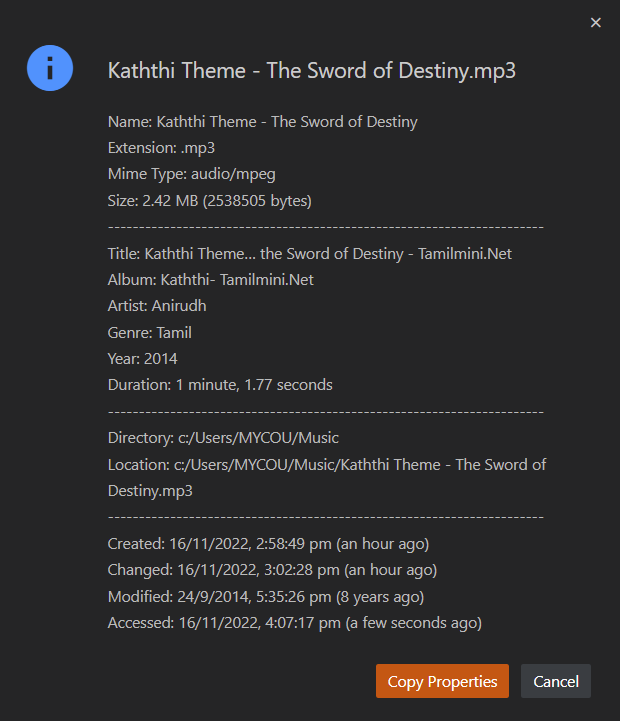
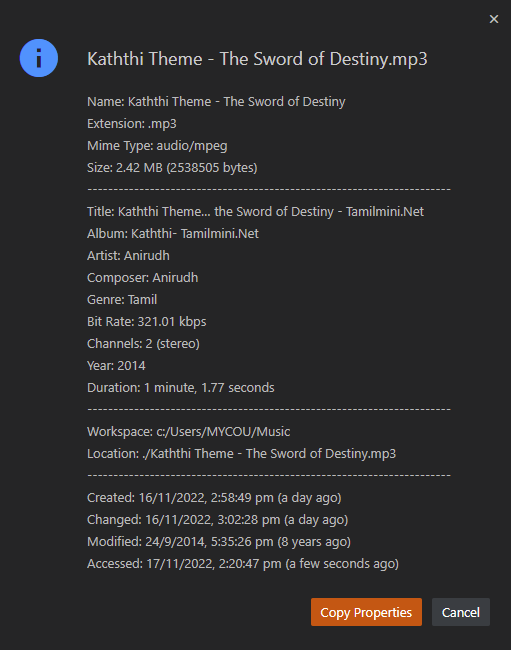
feat: Added more video and audio properties

diff --git a/src/extension.ts b/src/extension.ts
@@ -46,25 +46,34 @@ export function activate(context: vscode.ExtensionContext) {
 
 				const imageDetails = image ?
 					clean([
-						["Dimensions", `${image?.width} x ${image?.height} pixels`, Settings.imageMetaData.dimensions && typeof image.width !== 'undefined' && typeof image.height !== 'undefined'],
-						["Width", `${image?.width} pixels`, Settings.imageMetaData.width && typeof image.width !== 'undefined'],
-						["Height", `${image?.height} pixels`, Settings.imageMetaData.height && typeof image.height !== 'undefined'],
+						["Dimensions", `${image?.width} x ${image?.height} pixels`, Settings.metaData.dimensions && typeof image.width !== 'undefined' && typeof image.height !== 'undefined'],
+						["Width", `${image?.width} pixels`, Settings.metaData.width && typeof image.width !== 'undefined'],
+						["Height", `${image?.height} pixels`, Settings.metaData.height && typeof image.height !== 'undefined'],
 					]).join('\n') : "";
 
 				const audioDetails = audio ?
 					clean([
-						["Title", audio.title, Settings.audioMetaData.title && audio.title],
-						["Album", audio.album, Settings.audioMetaData.album && audio.album],
-						["Artist", audio.artist.join(', '), Settings.audioMetaData.artist && audio.artist],
-						["Genre", audio.genre.join(', '), Settings.audioMetaData.genre && audio.genre],
-						["Year", audio.year, Settings.audioMetaData.year && audio.year],
-						["Duration", humanizeDuration(audio.duration * 1000, { maxDecimalPoints: 2 }), Settings.showDuration && audio.duration],
+						["Title", audio.title, Settings.metaData.title && audio.title],
+						["Album", audio.album, Settings.metaData.album && audio.album],
+						["Artist", audio.artist, Settings.metaData.artist && audio.artist],
+						["Composer", audio.composer, Settings.metaData.composer && audio.composer],
+						["Genre", audio.genre, Settings.metaData.genre && audio.genre],
+						["Bit Rate", convertBytes(audio.bitRate, ['bps', 'kbps', 'mbps'], false), Settings.metaData.bitRate && audio.bitRate],
+						["Channels", audio.channels, Settings.metaData.channels && audio.channels],
+						["Year", audio.year, Settings.metaData.year && audio.year],
+						["Duration", humanizeDuration(audio.duration * 1000, { maxDecimalPoints: 2 }), Settings.metaData.duration && audio.duration],
 					]).join('\n') : "";
 
 				const videoDetails = video ?
 					clean([
-						["Duration", humanizeDuration(video.duration * 1000, { maxDecimalPoints: 2 }), Settings.showDuration && video.duration],
-					]) : "";
+						["Dimensions", `${video?.width} x ${video?.height} pixels`,  Settings.metaData.dimensions && typeof video.width !== 'undefined' && typeof video.height !== 'undefined'],
+						["Width", `${video?.width} pixels`,  Settings.metaData.width && typeof video.width !== 'undefined'],
+						["Height", `${video?.height} pixels`,  Settings.metaData.height && typeof video.height !== 'undefined'],
+						["Frame Rate", `${video.frameRate}fps`,  Settings.metaData.frameRate && video.frameRate],
+						["Bit Rate", convertBytes(video.bitRate, ['bps', 'kbps', 'mbps'], false),  Settings.metaData.bitRate && video.bitRate],
+						["Ratio", video.ratio,  Settings.metaData.ratio && video.ratio],
+						["Duration", humanizeDuration(video.duration * 1000, { maxDecimalPoints: 2 }), Settings.metaData.duration && video.duration],
+					]).join('\n') : "";
 
 				const locationDetails = clean([
 					['Workspace', stats.workspace?.fsPath, Settings.paths.relativeToRoot && Settings.paths.workspace && stats.workspace?.fsPath],

diff --git a/src/helpers.ts b/src/helpers.ts
@@ -10,15 +10,17 @@ import * as path from "path";
 import * as vscode from 'vscode';
 import * as DataDetails from './DataDetails';
 import { Settings } from './Settings';
+import * as  ffmpeg from 'fluent-ffmpeg';
+const ffprobe = require('@ffprobe-installer/ffprobe');
 
+ffmpeg.setFfprobePath(ffprobe.path);
 
 // Converts the file size from Bytes to KB | MB | GB | TB
-export const convertBytes = (bytes: number): string => {
-  const sizes = ['Bytes', 'KB', 'MB', 'GB', 'TB'];
+export const convertBytes = (bytes: number, sizes = ['Bytes', 'KB', 'MB', 'GB', 'TB'], showBytes = true): string => {
   if (bytes === 0) return 'n/a';
   const i = Math.floor(Math.log(bytes) / Math.log(1024));
   if (i === 0) return bytes + ' ' + sizes[i];
-  return (bytes / Math.pow(1024, i)).toFixed(2) + ' ' + sizes[i] + ` (${bytes} bytes)`;
+  return (bytes / Math.pow(1024, i)).toFixed(2) + ' ' + sizes[i] + (showBytes ? ` (${bytes} bytes)` : "");
 };
 
 export const clean = (list: any[]) => {
@@ -140,17 +142,32 @@ export const getImageDetails = (imagePath: string) => {
   }
 };
 
-export const getAudioDetails = async (audioPath: string): Promise<MM.Metadata | undefined> => {
+const ffprobePromise = async (filePath: string) => {
+  const metaData: ffmpeg.FfprobeData = await new Promise((resolve, reject) =>
+    ffmpeg.ffprobe(filePath, (err, metadata) => {
+      if (err) reject(err);
+      else resolve(metadata);
+    })
+  );
+  return metaData;
+};
+
+export const getAudioDetails = async (audioPath: string) => {
   try {
-    var readableStream = fs.createReadStream(audioPath);
-    const result = await new Promise((resolve, reject) => {
-      musicmetadata(readableStream, { duration: Settings.showDuration }, function (err, metadata) {
-        if (err) throw reject(err);
-        readableStream.close();
-        resolve(metadata);
-      });
-    });
-    return result as MM.Metadata;
+    const metaData = await ffprobePromise(audioPath);
+    const audio = metaData.streams.find(st => st.codec_type === 'audio') || {} as ffmpeg.FfprobeStream;
+    const tags = metaData.format.tags || {};
+    return {
+      title: tags.title,
+      album: tags.album,
+      artist: tags.artist,
+      composer: tags.composer,
+      genre: tags.genre,
+      year: tags.date,
+      duration: metaData.format.duration || 0,
+      bitRate: metaData.format.bit_rate || 0,
+      channels: audio.channel_layout ? `${audio.channels} (${audio.channel_layout})` : audio.channels,
+    };
   } catch (error: any) {
     console.error(error.message);
     return undefined;
@@ -160,10 +177,16 @@ export const getAudioDetails = async (audioPath: string): Promise<MM.Metadata | 
 // TODO: Now we get only duration. We need try to get other video information as well
 export const getVideoDetails = async (videoPath: string) => {
   try {
-    if (!Settings.showDuration) return;
-    var readableStream = fs.createReadStream(videoPath);
-    const duration = await getVideoDurationInSeconds(readableStream);
-    return { duration };
+    const metaData = await ffprobePromise(videoPath);
+    const video = metaData.streams.find(st => st.codec_type === 'video') || {} as ffmpeg.FfprobeStream;
+    return {
+      width: video.width,
+      height: video.height,
+      duration: metaData.format.duration || 0,
+      bitRate: parseInt(video.bit_rate || '0', 10),
+      frameRate: eval(video.r_frame_rate || "0").toFixed(2),
+      ratio: video.display_aspect_ratio
+    };
   } catch (error: any) {
     console.error(error.message);
     return undefined;

diff --git a/src/Settings.ts b/src/Settings.ts
@@ -24,20 +24,22 @@ export class Settings {
       "relativeTimestamp": boolean
     };
   }
-  static get audioMetaData() {
-    return Settings.getSettings("audioMetaData") as {
-      "title": boolean,
-      "album": boolean,
-      "artist": boolean,
-      "genre": boolean,
-      "year": boolean
-    };
-  }
-  static get imageMetaData() {
-    return Settings.getSettings("imageMetaData") as {
+  static get metaData() {
+    return Settings.getSettings("metaData") as {
       "dimensions": boolean,
       "width": boolean,
-      "height": boolean
+      "height": boolean,
+      "title" : boolean,
+      "album" : boolean,
+      "artist" : boolean,
+      "composer" : boolean,
+      "genre" : boolean,
+      "bitRate" : boolean,
+      "frameRate" : boolean,
+      "ratio" : boolean,
+      "channels" : boolean,
+      "year" : boolean,
+      "duration" : boolean
     };
   }
   static get selections() {
@@ -54,9 +56,6 @@ export class Settings {
       "location": boolean,
       "relativeToRoot": boolean
     };
-  }
-  static get showDuration() {
-    return Settings.getSettings("showDuration") as boolean;
   }
   static get copyAction() {
     return Settings.getSettings("copyAction") as "Properties" | "Location";
